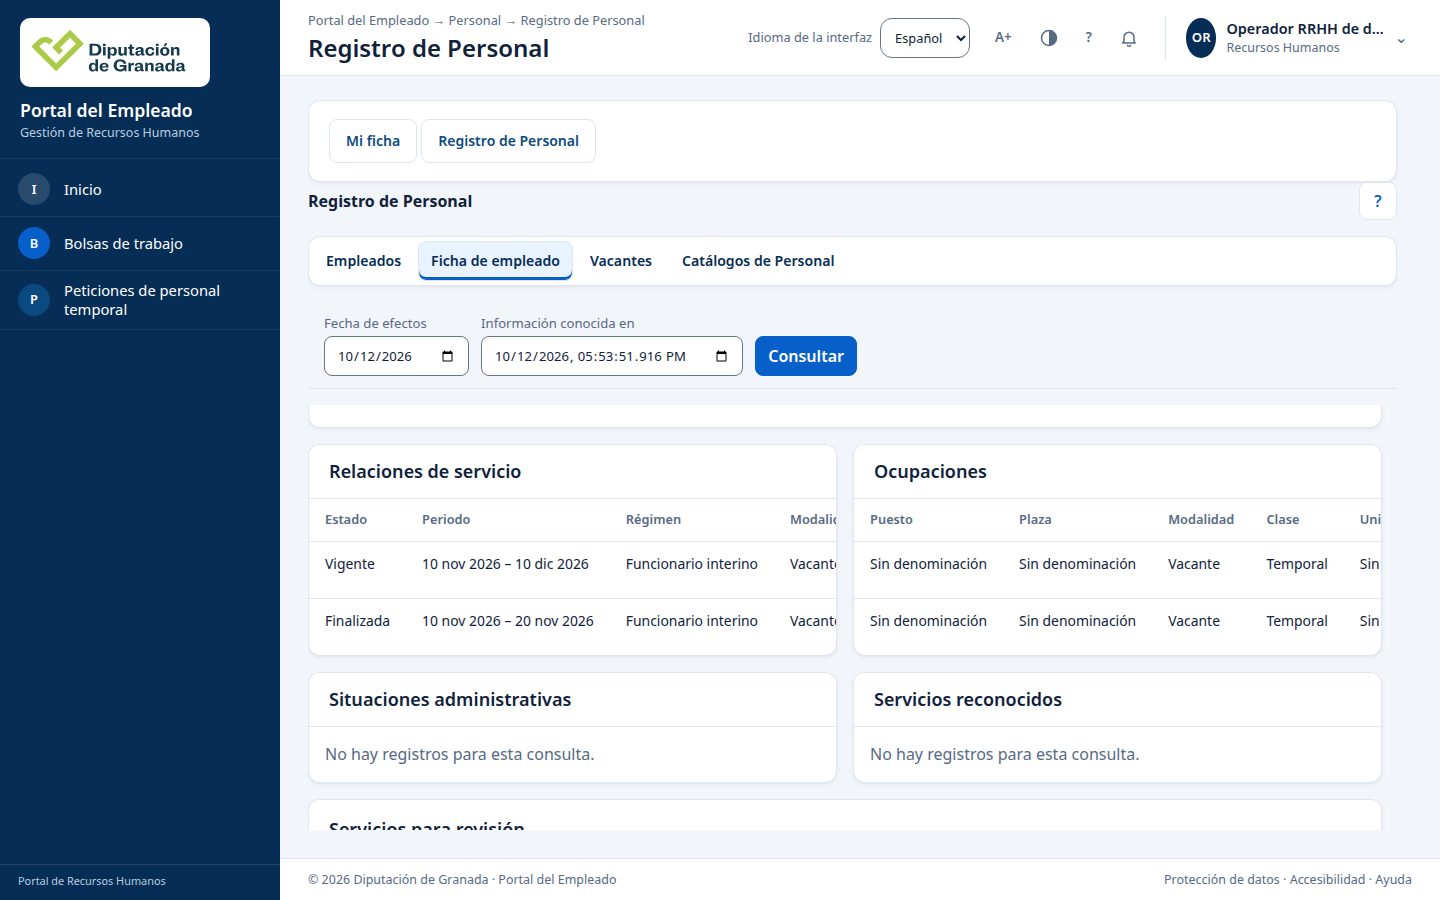
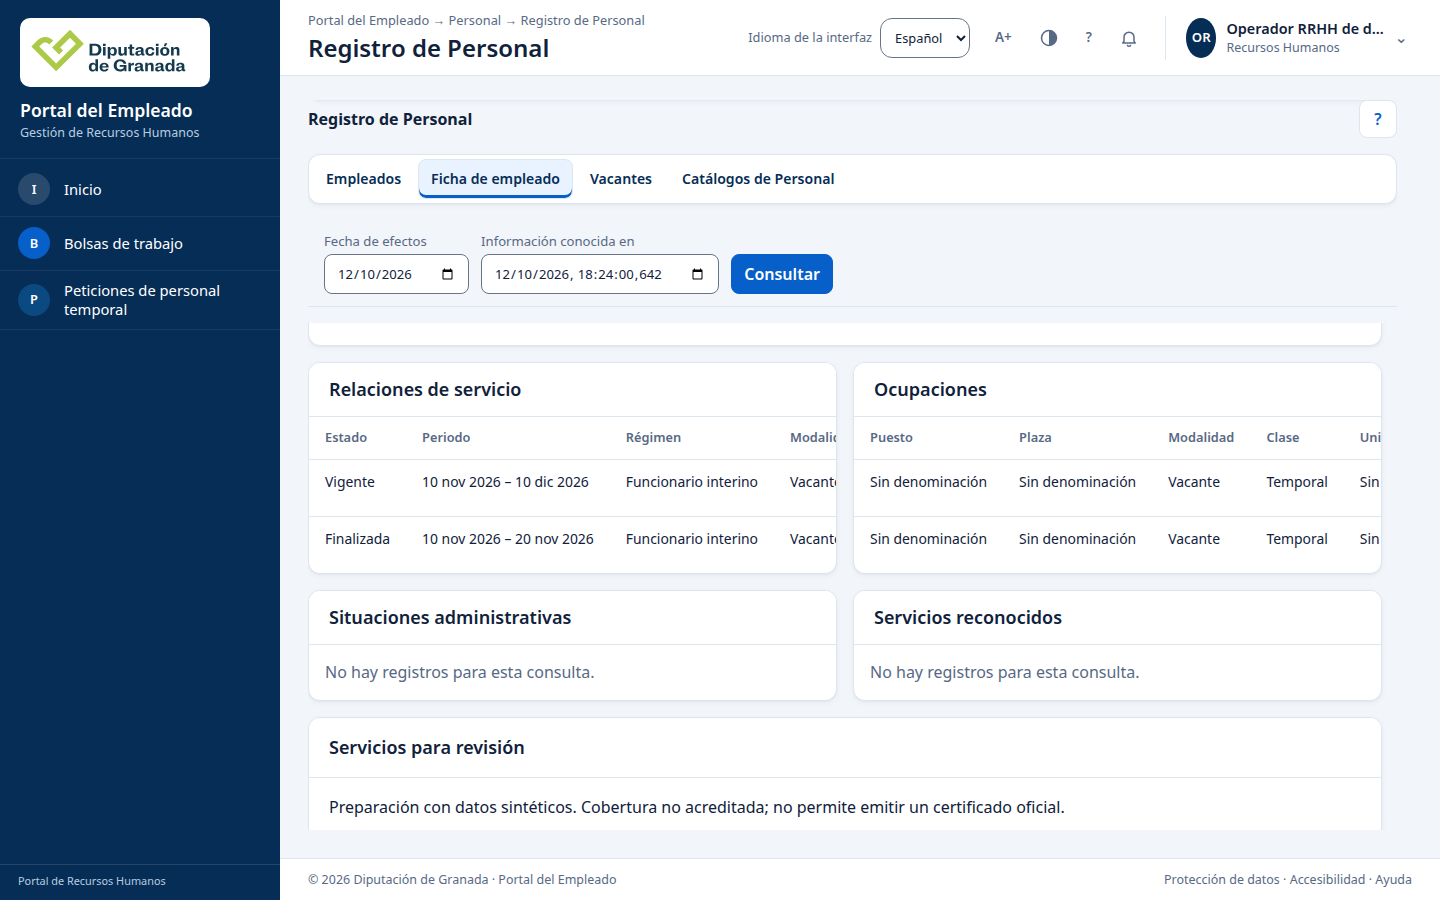
Acreditar cese Personal46 corregido con reinicio y capturas

Changed region(s): [[0.2188, 0.1244, 0.9688, 0.9333]]

diff --git a/docs/evidencias/codexk-personal-b2-20261012/acta.md b/docs/evidencias/codexk-personal-b2-20261012/acta.md
@@ -1,31 +1,33 @@
 # Alta en Personal y cese con vuelta a Bolsa — 12/10/2026
 
-**Entorno:** Chrome del sistema y PostgreSQL 18.4 en un contenedor propio con 2 GiB. La base procede de una copia fría de la principal; todos los datos de este recorrido son inventados. No se modificó cidonia. Las migraciones de este recorrido se instalaron una vez, sin `DOWN` ni reaplicación.
+**Entorno:** Chrome del sistema y PostgreSQL 18.4 en una copia propia de la principal. Todos los datos son inventados. No se tocó cidonia. La cabeza final de Personal46 se instaló una sola vez en esta copia; no se ejecutó `DOWN` ni se reaplicó SQL con historia.
 
-## Recorrido comprobado
+## Recorrido comprobado con Personal46 final
 
 | Paso | Respuesta y efecto observado |
 | --- | --- |
-| Alta desde el expediente CT `2026/94014` | Confirmación HTTP 200. CT devolvió `recibo:incorporacion-personal-b2:8ea5f26c-c52f-4170-9d28-e1c2024d0375`; Personal conservó un plan, una ejecución, una relación y una ocupación, con su terminal RPT. El enlace del recibo abrió la ficha. |
-| Cese desde el formulario CT | HTTP 201 y `recibo:ct-seguimiento:ec02dbbf5cef9bed3804b55b8c9dd1ec32dece745df5a53bfc56c5807c520c55`. La fecha de fin configurada para esta copia es el 20/11/2026. |
-| Finalización en Personal | La relación y **la misma ocupación** tienen revisión 2 `finalizada`, hasta 20/11/2026. Sus revisiones 1 siguen en la historia. Recibos `perrec_ffa740fb6bf344028c5ad141cf250e03` (relación) y `perrec_ac96d6dfa02c4328b31a74bb1a0042b5` (ocupación); una sola ocupación opaca, sin crear otro `ocu_*`. La ficha HTTP 200 devuelve versión 4. |
-| Vuelta a Bolsa | Un contrato de cese, una restricción y una auditoría nominal. Recibo `recibo:bolsa:cese:ee752992548c9e401633900b0c01ab5b1497fc8116e9dd1b45cc2874ee23e303`; **disponible desde 20/04/2027** según la política de ejemplo v2 cargada únicamente en el clon. |
+| Alta desde el expediente CT `2026/94014` | Confirmación HTTP 200. CT devolvió `recibo:incorporacion-personal-b2:99aac398-2c24-4713-81b2-b98caece10eb`; Personal conservó un plan, una ejecución, una relación y una ocupación, con terminal RPT. |
+| Cese desde el formulario CT | HTTP 201 y `recibo:ct-seguimiento:35cf8f90aa3a5b9d478eaa5d367972d72f3ff767a7761e3f812126327b9c5241`. La fecha de fin configurada para esta copia es el 20/11/2026. |
+| Finalización en Personal | La relación y **la misma ocupación** tienen revisión 2 `finalizada`, hasta 20/11/2026. Sus revisiones 1 siguen en la historia. Recibos `perrec_d5dc440a24864762aef42f8d1161ada9` (relación) y `perrec_6d5a1a9a2fb0417abab96c9a1576c60f` (ocupación); no se creó otro identificador de ocupación. La ficha HTTP 200 devuelve versión 4. |
+| Vuelta a Bolsa | Tras un primer intento asíncrono fallido (`23503`), el relevo recuperó la misma operación sin duplicar: un contrato de cese, una restricción y una auditoría. Recibo `recibo:bolsa:cese:0d7d835ce8da5fa05d2abeba2b60164577c99b74054852278b6dbf5d93d72e25`; **disponible desde 20/04/2027** según la política de ejemplo v2 cargada solo en el clon. |
 | Reinicio y repetición | Reiniciados aplicación y PostgreSQL sin ejecutar SQL de nuevo. Seguimiento CT HTTP 200 y ficha Personal HTTP 200 mantuvieron recibos, fecha y revisiones. El mismo POST de cese devolvió HTTP 201 y el mismo recibo; los recuentos e identificadores antes/después son idénticos. |
 
[2 lines of base64/hex data omitted]
 
-Los dos selectores nuevos de historia Personal usan índices: `Index Scan Backward` por relación y ocupación, una búsqueda y dos bloques en caché cada uno; EXPLAIN midió 0,030 y 0,028 ms. En Chrome, ficha GET 200 tardó 53 ms y lista GET 200 tardó 102 ms; el servidor registró 60 ms para la lista, por debajo de 100 ms. El POST de repetición, que recupera dos actos nominales, tardó 669 ms. A 1440 px no hubo scroll de documento; a 390 px no hubo desbordamiento horizontal global.
+La segunda copia partió del PGDATA anterior a Personal46. Para reproducir las funciones de CT ya corregidas en la primera copia, se alineó **una vez** la definición literal del validador CT205 de `e43ee05c…` a `23b1bad8…` tras cotejar ambas huellas; CT206, CT207 y Personal46 se instalaron una vez. Esta alineación es preparación del clon, no ensayo de la migración CT205 ni instrucción de despliegue.
+
+La lista Personal con 25 filas de 1.001 empleados respondió GET 200 en 52–54 ms de servidor. La ficha respondió GET 200 en 139 ms de Chrome y 97 ms de servidor, con 13 consultas fijas; a 1440 px no hubo scroll de documento y a 390 px no hubo desbordamiento horizontal global. Los selectores nuevos de historia Personal usan índices por relación y ocupación, con una búsqueda y dos bloques en caché cada uno (0,030 y 0,028 ms en el primer clon). El GET CT del plan B2 con 32 vacantes tardó 590–610 ms y 100 consultas; queda comunicado a su equipo como problema de rendimiento ajeno a Personal46.
 
 ## SQL y configuración para la principal
 
 Cotejar primero qué está instalado y aplicar **solo lo pendiente**, en este orden: Personal45 de #1011; CT205 de #1049; CT206 de #1050; CT207 de #1052; Personal46 de esta PR. La lista ejecutable focal es [`lista_sql_codexk_personal46_20261012.txt`](../../../deploy/principal/lista_sql_codexk_personal46_20261012.txt). Personal46 exige la postimagen Personal45 y aborta ante otra definición.
 
-**CONFIG NUEVA de Personal46: ninguna.** Para activar el recorrido completo, la instalación ya prevista requiere `VEC_PERSONAL_B2_GOBIERNO_ENABLED=true`, `VEC_CT_INCORPORACION_ACREDITADA_ENABLED=true` y `VEC_BOLSA_CESE_CT_ENABLED=true`, con sus LOGIN/provisiones nominales existentes. En el JSON privado `personal_b2.cese_fecha_efecto` debe fijarse según la decisión de RRHH; esta copia usa `primer_dia_sin_relacion` solo para el ensayo. La lectura de la lista necesita la terna AD172 ya inventariada `vec_ct_personal_b2_consultas / vec_personal.registro_empleado.empleados.v1 / personal.registro_empleado.empleados.consultar / interna_corporativa`; faltaba en el clon y se añadió allí directamente. La política de ejemplo de Bolsa que mapea `vacante` queda a cargo de Codex-I y Dirección; no se publica desde esta rama.
+**CONFIG NUEVA de Personal46: ninguna.** Para activar el recorrido completo, la instalación ya prevista requiere `VEC_PERSONAL_B2_GOBIERNO_ENABLED=true`, `VEC_CT_INCORPORACION_ACREDITADA_ENABLED=true` y `VEC_BOLSA_CESE_CT_ENABLED=true`, con sus LOGIN/provisiones nominales existentes. En el JSON privado `personal_b2.cese_fecha_efecto` debe fijarse según la decisión de RRHH; esta copia usa `primer_dia_sin_relacion` solo para el ensayo. La lectura de la lista necesita la terna AD172 ya inventariada `vec_ct_personal_b2_consultas / vec_personal.registro_empleado.empleados.v1 / personal.registro_empleado.empleados.consultar / interna_corporativa`. La política de ejemplo de Bolsa que mapea `vacante` queda a cargo de Codex-I y Dirección; no se publica desde esta rama.
 
 ## Capturas y límites observados
 
-- [Recibo de alta CT](alta-ct-recibo-1440.png).
+- [Cese confirmado en CT](cese-ct-confirmado-1440.png).
 - [Ficha: relación finalizada](ficha-cese-historia-1440.png) y [periodo de la ocupación](ficha-cese-periodos-1440.png).
-- [Ficha en móvil](ficha-ocupaciones-390.png).
+- [Ficha móvil, inicio de tabla](ficha-ocupaciones-390.png) y [periodo tras desplazamiento interno](ficha-ocupaciones-periodo-390.png).
 
-Tras el cese, el panel de incorporación CT muestra «El expediente o la selección han cambiado» incluso al refrescar y deja de ofrecer el enlace a la ficha. La lista RRHH sí abre la ficha una vez provisionada su terna AD172. La tabla de ocupaciones muestra ambas revisiones, pero carece de columna de estado y exige desplazamiento interno horizontal para ver el periodo; Dirección tiene avisados estos dos detalles de interfaz. El fichero escogido en el formulario de cese aportó su huella; este recorrido no acredita custodia del documento, firma oficial ni envío externo.
+Tras el cese, el panel de incorporación CT muestra «El expediente o la selección han cambiado» incluso al refrescar y deja de ofrecer el enlace a la ficha. La lista RRHH permite abrirla; la tabla de ocupaciones muestra ambas revisiones, pero carece de columna de estado y exige desplazamiento interno horizontal para ver el periodo. Dirección y M tienen avisados estos detalles. El fichero elegido en el formulario de cese aportó su huella; este recorrido no acredita custodia del documento, firma oficial ni envío externo.
